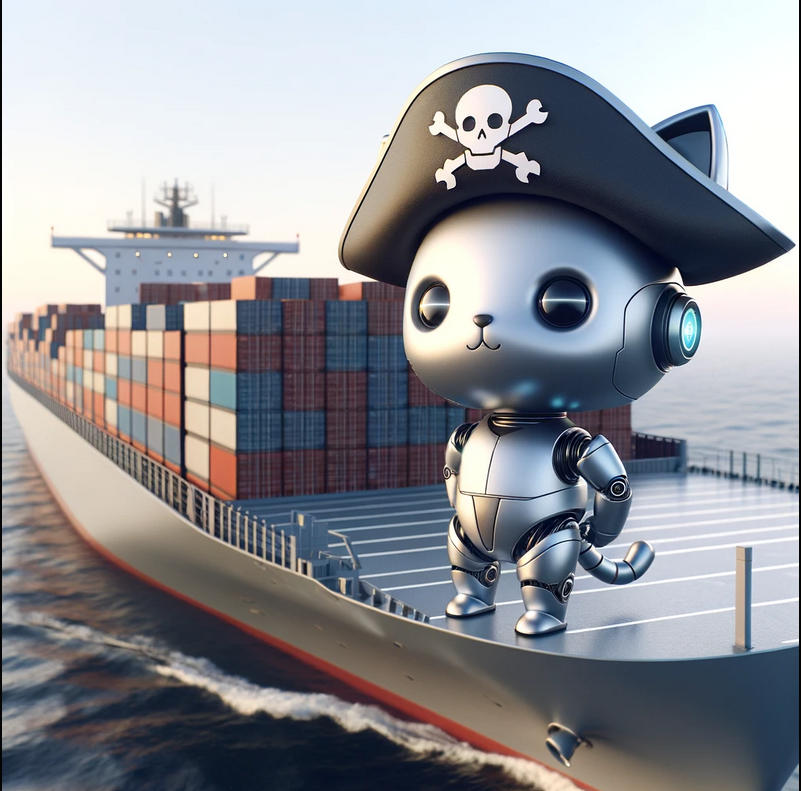
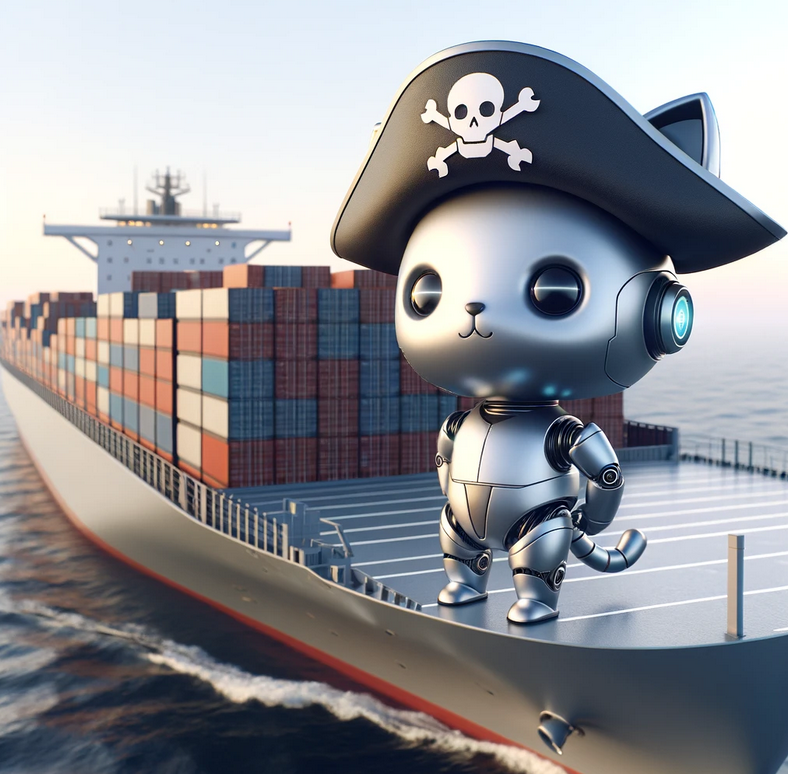
2024/01/24 update v3
- last image crop
- changed date of post
- minor tweaks - link to github

diff --git a/_posts/2024-01-24-post.md b/_posts/2024-01-24-post.md
@@ -1,6 +1,6 @@
 ---
 title: "Create Python development environment in Docker - a step by step guide for Windows"
-date: 2024-01-22
+date: 2024-01-24
 ---
 
 
@@ -25,7 +25,7 @@ If this happened to you, and it's rather a question of when and not if, I feel f
 Hop on! It will take some time to explain!
 
 
-Any comments, remarks, questions - feel free to contact me at [demistyfAI\@gmail.com](mailto:demistyfai@gmail.com) 
+Any comments, remarks, questions - feel free to contact me at [demistyfAI@gmail.com](mailto:demistyfai@gmail.com) 
 ![Robot Reading a book in a library](../../../assets/images/001P_01IMG.png)
 
 ## A little bit of history (and a personal touch)
@@ -103,7 +103,9 @@ RUN pip install PyPortfolioOpt  && \
 COPY ./src ./src
 ```
 
+
 What's happening here? Let's explain step by step:
+
 
 | Command | Explanation |
 | ---- | ---- |
@@ -312,7 +314,7 @@ And this are the results:
 ![Compilation results](../../../assets/images/001P_12IMG.png)
 
 
-It's working! It's working! 
+**It's working! It's working!** 
 
 
 ![Evil robot laughing yet surrounded by sweet kitten](../../../assets/images/001P_13IMG.png)
@@ -338,7 +340,7 @@ Now you are in your volume folder "code" - which is a shared folder between your
 To learn proper file management techniques and to keep your file structure tidy save your notebook in "src" folder. I propose file name as something along the lines "001_testContainer.ipynb".
 
 
-Done!
+**Done!**
 
 
 Now you can close you Visual Studio Code and move to PowerShell console window.
@@ -396,6 +398,8 @@ Now you are ready to sail through the container sea. I wish you luck!
 
 ![Pirate cat on a container ship](../../../assets/images/001P_18IMG.png)
 
-P.S. : If you have any questions, comments - please feel free to drop me an e-mail to [demistyfAI\@gmail.com](mailto:demistyfai@gmail.com) 
+P.S. : If you have any questions, comments - please feel free to drop me an e-mail to [demistyfAI@gmail.com](mailto:demistyfai@gmail.com) 
 
-P.S.2 : I would like to extend my gratitude to Patrick Loeber, who recorded a video with similar tutorial for Docker on YouTube. This was a huge inspiration (and starting point) for my material. You can find the video [here](https://www.youtube.com/watch?v=6OxqiEeCvMI)
+P.S. 2: I would like to extend my gratitude to Patrick Loeber, who recorded a video with similar tutorial for Docker on YouTube. This was a huge inspiration (and starting point) for my material. You can find the video [here](https://www.youtube.com/watch?v=6OxqiEeCvMI)
+
+P.S. 3: You can find Github with necessary files used for this tutorial on my [Github](https://github.com/TGusciora/001_Post_KickAssContainer). Be mindful that you will have to copy repository contents to "C:\AwesomeFolder\KickAssContainer" to make codes working.
